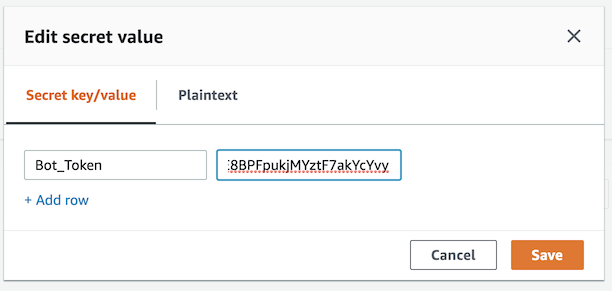
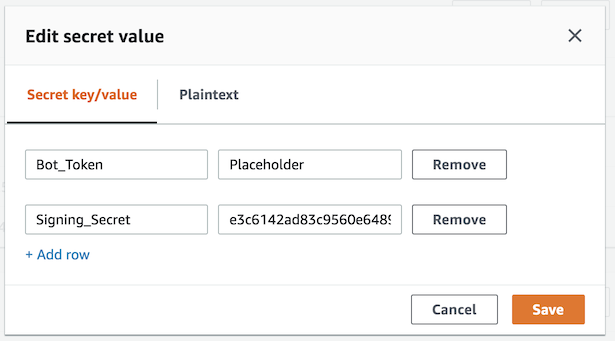
Verification of signature

Changed region(s): [[0.0, 0.0309, 0.9935, 0.7732], [0.0, 0.7423, 0.9935, 0.9897], [0.0, 0.0309, 0.2794, 0.2165]]

diff --git a/src/handlers/slack-bot.js b/src/handlers/slack-bot.js
@@ -2,48 +2,58 @@
     Licensed under MIT-0
     This function processes events from Slack (received through API Gateway) and echoes them back to Slack.
 */
-const AWS = require('aws-sdk')
-const secretsManager = new AWS.SecretsManager()
+const AWS = require('aws-sdk');
+const secretsManager = new AWS.SecretsManager();
 
 // The main handler
 exports.handler = async (event) => {
-    console.log(JSON.stringify(event))
+    console.log(JSON.stringify(event));
 
     if (event == undefined || !event.hasOwnProperty('body')) {
-        console.error('Malformed event')
-        return { statusCode: 400 }
+        console.error('Malformed event');
+        return { statusCode: 200 };
     }
 
-    const eventBody = JSON.parse(event.body)
-
-    // Challenge verification. If 'challenge' is present in the request, return the challenge value
-    if (eventBody.hasOwnProperty('challenge')) {
-        console.log('Challenge present')
-        return { statusCode: 200, body: eventBody.challenge }
-    }
-
-    // In direct message conversations with bots, Slack sends bot's messages back to the events
-    // endpoint. If the subtype of the event is 'bot_message', the function will ignore it.
-    if (eventBody.event.subtype == 'bot_message')
-        return { statusCode: 200 }
+    const eventBody = JSON.parse(event.body);
     
-    console.log(`user ${eventBody.event.user} sent in channel ${eventBody.event.channel}, message ${eventBody.event.text}, of type ${eventBody.event.type} and subtype ${eventBody.event.subtype}`)
-
-    // Getting the bot token from a Secrets Manager's secret
+    // Retreiving the secret from Secrets Manager
     const secretData = await secretsManager.getSecretValue({SecretId: process.env.SECRET}).promise();
     const secretString = JSON.parse(secretData.SecretString);
 
-    return await postToSlack(secretString.Bot_Token, eventBody.event.channel, eventBody.event.text)
-}
+    // Verifying the signature to confirm that the message was sent by Slack
+    // Reference: https://api.slack.com/docs/verifying-requests-from-slack
+    const signatureVerified = await verifySignature (event.headers['X-Slack-Request-Timestamp'],
+                                                    event.body,
+                                                    event.headers['X-Slack-Signature'],
+                                                    secretString.Signing_Secret);
+    
+    if (!signatureVerified) {
+        console.error('Signature verification failed. Exiting.');
+        return {statusCode: 200};
+    } else
+        console.log('Signature verification succeeded.');
+        
+    // Challenge verification. If 'challenge' is present in the request, return the challenge value
+    if (eventBody.hasOwnProperty('challenge')) {
+        console.log('Challenge present in the request. Returning the challenge string back to Slack. Exiting.');
+        return { statusCode: 200, body: eventBody.challenge };
+    }
+    
+    // In direct message conversations with bots, Slack sends bot's messages back to the events
+    // endpoint. If the subtype of the event is 'bot_message', the function will ignore it.
+    if (eventBody.event.subtype == 'bot_message') {
+        console.log("subtype = bot_message. Exiting.");
+        return { statusCode: 200 };
+    }
+    
+    console.log(`user ${eventBody.event.user} sent in channel ${eventBody.event.channel}, message ${eventBody.event.text}, of type ${eventBody.event.type} and subtype ${eventBody.event.subtype}`);
+    return await postToSlack(secretString.Bot_Token, eventBody.event.channel, eventBody.event.text);
+};
 
 const postToSlack = async (token, channel, text) => {
   return new Promise((resolve, reject) => {
-    const https = require('https')
-    const data = {
-        token,
-        channel,
-        text
-    }
+    const https = require('https');
+    const data = { token, channel, text };
     
     const options = {
         hostname: 'slack.com',
@@ -54,25 +64,49 @@ const postToSlack = async (token, channel, text) => {
             'Content-Type': 'application/json; charset=utf-8',
             'Authorization': `Bearer ${token}`
         }
-    }
+    };
 
     const req = https.request(options, (res) => {
-        console.log(`statusCode: ${res.statusCode}`)
+        console.log(`statusCode: ${res.statusCode}`);
         res.on('data', (d) => {
-            process.stdout.write(d)
-        })
+            process.stdout.write(d);
+        });
     
-        resolve({statusCode: 200})
-    })
+        resolve({statusCode: 200});
+    });
     
     // If error
     req.on('error', (e) => {
-        console.error('Error: ', e)
-        reject({statusCode: 400})
-    })
+        console.error('Error: ', e);
+        reject({statusCode: 200});
+    });
 
     // Send the request
-    req.write(JSON.stringify(data))
-    req.end()
-  })
-}
+    req.write(JSON.stringify(data));
+    req.end();
+  });
+};
+
+const verifySignature = async (slackTimestamp,slackBody,slackSignature,signingSecret) => {
+  return new Promise((resolve,reject) => {
+    const crypto = require('crypto');
+    
+    // Verifying if the timestamp is within 5 minutes from the current time
+    const currentTime = Math.floor(new Date().getTime()/1000);
+    if (Math.abs(currentTime - slackTimestamp) > 300) {
+        console.error('The request is older than 5 minutes');
+        resolve(false);
+    } else {
+        // Calculating and verifying the signature with headers in the Slack request
+        const sigBasestring = `v0:${slackTimestamp}:${slackBody}`;
+        const calculatedSignature = 'v0=' + crypto.createHmac('sha256', signingSecret).update(sigBasestring,'utf8').digest('hex');
+        if (calculatedSignature === slackSignature) {
+            resolve(true);
+        } else {
+            console.error('Signature does not match');
+            resolve(false);
+        }
+    }
+
+  });
+};

diff --git a/__tests__/unit/handlers/slack-bot.test.js b/__tests__/unit/handlers/slack-bot.test.js
@@ -11,7 +11,7 @@ describe('Test for slack-bot', () => {
             The expected result should match the return from your Lambda function.
             We expect the Lambda to return {statusCode: 400} when there's no event provided.
         */
-        const expectedResult = { statusCode: 400 };
+        const expectedResult = { statusCode: 200 };
 
         // Compare the result with the expected result
         expect(result).toEqual(expectedResult);

diff --git a/README.md b/README.md
@@ -56,7 +56,8 @@ Open the CloudFormationRole IAM role in IAM console and add SNSFullAccess, IAMFu
 #### Step-by-step directions
 
 1. In the Application page, choose **CloudFormationRole** under the **Infrastructure** section.
-1. **Identity and Access Management** console will open in a new tab. Choose **Attach policies**.
+1. **Identity and Access Management** console will open in a new tab.
+1. Choose **Attach policies**.
 1. Search for **SNSFullAccess** and select it (but do not attach it yet). Repeat for **IAMFullAccess** and **CloudWatchFullAccess**.
     
     ![SNSFullAccess](images/permissions-iam-snsfullaccess.png)
@@ -104,6 +105,7 @@ Create an IAM user with CodeCommitFullAccess permissions, generate Git credentia
 1. Choose **Download credentials** or save username and password to a safe location on your computer.
 
     ![Download CodeCommit credentials](images/permissions-codecommit-creds-generated.png)
+1. You can close the **IAM** tab now.
 
 ---
 
@@ -120,8 +122,9 @@ Clone the AWS CodeCommit repository, add a remote branch with the slack bot code
 #### Step-by-step directions
 
 1. Go back to the tab with the application you created in step 1.
-1. Choose **ProjectPipeline**.
-1. **CodePipeline** console will open in a new tab. Choose **AWS CodeCommit** under the **Source** stage.
+1. Under the **Infrastructure** section, choose **ProjectPipeline**.
+1. **CodePipeline** console will open in a new tab.
+1. Choose **AWS CodeCommit** under the **Source** stage.
 
     ![Pipeline](images/code-pipeline.png)
 
@@ -158,16 +161,58 @@ Clone the AWS CodeCommit repository, add a remote branch with the slack bot code
 
 #### Background
 
-You will create an application in Slack and make it work with your Serverless Application on AWS. Amazon API Gateway is a managed API service that you will use to subscribe to events from Slack. AWS Secrets Manager is a service to securely store secrets.
+You will create an application in Slack and make it work with your Serverless Application on AWS. Amazon API Gateway is a managed API service that you will use to subscribe to events from Slack. AWS Secrets Manager is a service to securely store secrets. The app will use two secrets from Slack: 1) the signing secret that enables the app to verify authenticity of events received from Slack and 2) the Bot Token that enables the app to post messages to Slack.
 
 #### High-level instructions
 
-Copy the API Gateway Endpoint. Create a Slack application and set up the necessary permissions, bot user, and events. Use the API Gateway Endpoint to subscribe to events - once you paste it, it should be automatically verified. Install the Slack app to your Slack workspace, copy the Bot Token, and store it in AWS Secrets Manager.
+Create a Slack application and set up the necessary permissions and bot user. Copy the signing secret to AWS Secrets Manager. Install the app to your workspace and copy the bot token to AWS Secrets Manager. Copy the API Gateway endpoint from Lambda and use it to subscribe to Slack events - once you paste it, it should be automatically verified. Choose the events you want to subscribe to and re-install the Slack app to your Slack workspace.
 
 #### Step-by-step directions
 
-1. Go to the application page in the Lambda console and refresh it to reflect the deployment from the previous step.
-1. Choose **SlackLambdaFunction**.
+1. Go to [api.slack.com](https://api.slack.com) and choose **Your apps** in the top right corner.
+1. Choose **Create New App**.
+1. Give your app a name and choose the development workspace that will own the app. Choose **Create App**.
+    
+    ![Create app modal](images/slack-create-app-dialog.png)
+
+1. In the **Basic Information** screen, choose **Permissions**.
+1. Scroll down to **Scopes**, choose **chat:write:bot** scope, and choose **Save Changes**.
+    
+    ![Scopes](images/slack-scopes.png)
+
+1. In the left menu, choose **Bot Users** and choose **Add a Bot User** in the screen that opens.
+1. Give your bot a **Display name**, a **Default username**, and choose **Always Show My Bot as Online**. Choose **Add Bot User**.
+1. In the left menu, choose **Basic Information** and scroll to the **App Credential** section.
+1. In the **Singing Secret** textbox, choose **Show** and copy the secret value.
+
+   ![Signing secret image](images/slack-signing-secret.png)
+
+1. Go back to AWS Console, choose **Services** in the navigation, and choose **Secrets Manager** in the list of services.
+1. Find the secret named as **APP_NAME-Secret** and choose it.
+
+    ![Secrets manager](images/secrets-manager-console.png)
+
+1. Scroll down to the **Secret value** section and choose **Retrieve secret value**.
+1. Choose **Edit**.
+1. Paste the **Signing secret** you copied in Slack to the textbox next to **Signing_Secret** key. Don't save it yet and keep the tab open.
+
+    ![Edit secret](images/secrets-manager-edit-secret-value.png)
+
+1. Go back to the Slack app configuration page.
+1. In the left menu, choose **Install App** and choose **Install App to Workspace**.
+1. Choose **Allow** in the following screen.
+    
+    ![OAuth](images/slack-oauth.png)
+
+1. Copy the **Bot User OAuth Access Token**.
+
+    ![Bot access token](images/slack-bot-token.png)
+
+1. Go back to the **Secrets Manager** tab.
+1. Paste the token you just copied to the textbox next to **Bot_Token** key. Choose **Save**.
+1. Choose **Services** in the navigation and and choose **Lambda**.
+1. Choose **Applications** in the left menu and click on your application name in the list.
+1. Under the **Resources** section, choose **SlackLambdaFunction**.
 1. **Lambda** console will open. Choose **API Gateway** under the **Designer** section.
     
     ![Lambda API Gateway](images/lambda-designer.png)
@@ -176,19 +221,7 @@ Copy the API Gateway Endpoint. Create a Slack application and set up the necessa
 
     ![Lambda API Gateway endpoint](images/lambda-apigateway-endpoint.png)
 
-1. Go to [api.slack.com](https://api.slack.com) and choose **Your apps** in the top right corner.
-1. Choose **Create New App**.
-1. Give your app a name and choose the development workspace that will own the app. Choose **Create App**.
-
-    ![Create app modal](images/slack-create-app-dialog.png)
-
-1. In the **Basic Information** screen, choose **Permissions**.
-1. Scroll down to **Scopes**, choose **chat:write:bot** scope, and choose **Save Changes**.
-
-    ![Scopes](images/slack-scopes.png)
-
-1. In the left menu, choose **Bot Users** and choose **Add a Bot User** in the screen that opens.
-1. Give your bot a **Display name**, a **Default username**, and choose **Always Show My Bot as Online**. Choose **Add Bot User**.
+1. Go back to the Slack app configuration page.
 1. In the left menu, choose **Event Subscriptions** and turn **Enable Events** on.
 1. Paste the API Gateway endpoint you copied in the Lambda console in step 4 to the **Request URL** textbox and press Enter. You should see a **Verified** label.
 
@@ -199,25 +232,11 @@ Copy the API Gateway Endpoint. Create a Slack application and set up the necessa
     ![Bot events](images/slack-bot-events.png)
 
 1. Choose **Save Changes**.    
-1. In the left menu, choose **Install App** and choose **Install App to Workspace**.
-1. Choose **Allow** in the following screen.
-    
-    ![OAuth](images/slack-oauth.png)
+1. A warning message will appear at the top, requesting the app to be re-installed. Choose **reinstall your app**.
 
-1. Copy the **Bot User OAuth Access Token**.
+    ![Reinstall app](images/slack-reinstall.png)
 
-    ![Bot access token](images/slack-bot-token.png)
-
-1. Go to AWS Console, choose **Services** in the navigation, and choose **Secrets Manager** in the list of services.
-1. Find the secret named as **APP_NAME-Secret** and choose it.
-
-    ![Secrets manager](images/secrets-manager-console.png)
-
-1. Scroll down to the **Secret value** section and choose **Retrieve secret value**.
-1. Choose **Edit**.
-1. Paste the token you copied in Slack to the textbox with the **Placeholder** value and choose **Save**.
-
-    ![Edit secret](images/secrets-manager-edit-secret-value.png)
+1. Choose **Allow** in the app installation screen that opens.
 
 ---
 
@@ -281,7 +300,9 @@ In the Lambda console, create a test event that will guarantee the function to f
 
 #### Step-by-step directions
 
-1. Go back to the application page in the **Lambda** console and choose **SlackLambdaFunction**.
+1. Choose **Services** in the navigation and and choose **Lambda**.
+1. Choose **Applications** in the left menu and click on your application name in the list.
+1. Under the **Resources** section, choose **SlackLambdaFunction**.
 1. Choose **Test** in the top right corner.
 1. In the pop-up form, give event an **Event name**, paste the following snippet into the code editor, and choose **Create**.
 
@@ -298,7 +319,7 @@ In the Lambda console, create a test event that will guarantee the function to f
 
     ![Failed Lambda](images/lambda-failed.png)
 
-1. Within 5 minutes, you will receive a CloudWatch Alarm notification in the Slack channel where you configured AWS Chatbot.
+1. Within a couple of minutes, you will receive a CloudWatch Alarm notification in the Slack channel where you configured AWS Chatbot.
 
     ![CloudWatch Alarm](images/slack-cloudwatch-alarm.png)
 
@@ -336,7 +357,7 @@ To clean up the AWS account after this workshop, you will need to remove all res
 1. After completing step 3, refresh the **Applications** page to confirm if the application has been deleted.
 
 #### Remove CodeCommit credentials
-1. Go to **IAM** console.
+1. Choose **Services** in the navigation and and choose **IAM**.
 1. Choose **Users** in the left menu.
 1. Find the user you created in the AWS CodeCommit credentials step.
 1. Select the checkbox next to the user name and choose **Delete user**.
@@ -344,7 +365,7 @@ To clean up the AWS account after this workshop, you will need to remove all res
 
 #### Remove AWS Chatbot configuration and role
 
-1. Go to **AWS Chatbot** console
+1. Choose **Services** in the navigation and and choose **AWS Chatbot**.
 1. Choose your Slack workspace in the **Configured clients** list.
 1. Click the name of the Slack channel you configured for notifications. A **Slack channel details** page will open.
 1. Under **IAM role**, click the role name.
